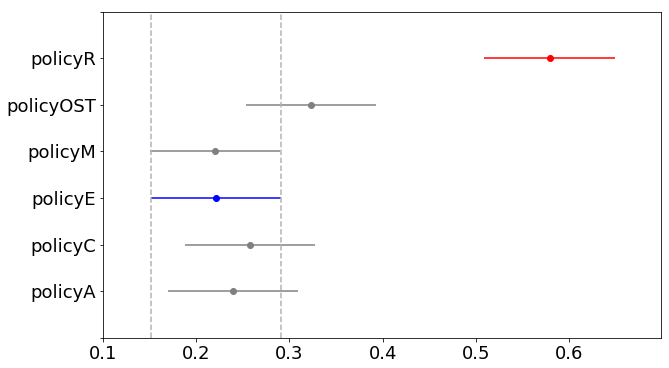
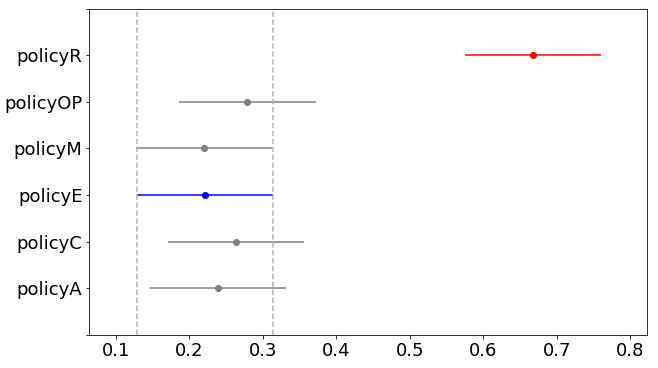
Updates from Overleaf

diff --git a/example.tex b/example.tex
@@ -347,6 +347,28 @@ Two time-series datasets will be used in order to apply the proposed approach an
 \\$\bullet$ \textbf{Gas sensors for home activity monitoring Data Set } \cite{HUERTA2016169} - a timestamped dataset containing readings from temperature, humidity and 8 metal-oxide(MOX) gas sensors of a contained environment where either or not a stimuli is presented. The collected data will be used in the Support Vector Regression(SVR) (with an RBF kernel) task in order to assess the 5 policies. The generated support vector models are aimed at predicting the level of MOX gas based on the vector of detected humidity and temperature.
 \subsection{Experimentation with Linear Regression models}
 % experiment set up for Lin Reg
+The experiment using linear regression models was performed using the initial 100 datapoints of the dataset for any pre-processing analysis depending on the targeted policy and the rest of the dataset was used to simulate an online approach to each of the 5 policies.
+
+%SHOULD I specify the used parameter values
+Three of the policies required some parameterisation which needs to be mentioned in advance.
+% $\bullet$ \emph{CuSum policy:}
+% $\bullet$ \emph{Random policy:}
+% $\bullet$ \emph{OP policy:}
+% $\bullet$ \emph{Median policy:}
+The Median policy was performed using an $\alpha$ fraction of the median of the first 100 datapoints, in this case $\alpha$ was set to 0.5.
+
+The CuSum policy relies on a threshold parameter $\Theta = 2$, up to which the cumulative sum of the logarithm ratio is allowed to increase.
+
+The OP policy requires two parameter values, one for the error sum threshold and one for the penalty value. The boxplot analysis was performed by specifying a threshold $\Theta$ for the OP policy and running the simulation with penalty values ranging from 2 to 15. 
+In \ref{fig:boxplot_linreg} for the USV sensor "pi3" it is shown that the highest mean on update delaying is achieved using a threshold $\Theta = 3$ and a penalty value $B=14$.
+These values are then used in the complete simulation of the policy comparison.
+
+\begin{figure}[h]
+    \centering
+    \includegraphics[scale=0.4]{imgs/boxplot_linreg_waiting_pi3.png}
+    \caption{Waiting time boxplot for $\Theta=3$ and $B$ values in the range 2 to 15}
+    \label{fig:boxplot_linreg}
+\end{figure}
 
 % place plot of all policies abs error rate for lin reg
 \begin{figure}[h]
@@ -358,41 +380,44 @@ Two time-series datasets will be used in order to apply the proposed approach an
 
 \begin{figure}[h]
     \centering
-    \includegraphics[scale=0.33]{imgs/lin_reg_pi4_w25.png}
-    \caption{Absolute error difference for USV sensor system, s=pi4, w=25, using Linear Regression}
+    \includegraphics[scale=0.33]{imgs/comm_lin_reg_pi3.png}
+    \caption{Communication for USV sensor system, s=pi3, w=25, using Linear Regression}
     \label{fig:err_lin_reg_pi4}
 \end{figure}
 % talk about one-way anova results and tukey ttest on waiting time
 % place plot
-\begin{figure}[h]
+\begin{figure}[t!]
     \centering
     \includegraphics[scale=0.35]{imgs/lin_reg_pi3_waiting_plot_diff_means.png}
     \caption{Policy comparison on waiting time using using Linear Regression}
-    \label{fig:svr_rbf_R5_waiting_plot_diff_means}
+    \label{fig:lin_reg_pi3_waiting_plot_diff_means}
 \end{figure}
 % talk about one way anova results and tukey ttest on abs error rate
-\begin{figure}[h]
+\begin{figure}[t!]
     \centering
     \includegraphics[scale=0.35]{imgs/lin_reg_pi3_error_plot_diff_means.png}
     \caption{Policy comparison on absolute error rate time using Linear Regression}
-    \label{fig:svr_rbf_R5_waiting_plot_diff_means}
+    \label{fig:lin_reg_pi3_waiting_plot_diff_means}
 \end{figure}
 
 \subsection{Experimentation with Support Vector Regression models}
 
-After some analysis of the data it was found out that the initial 100 datapoints of the HT sensor dataset contains 
+After some analysis of the data it was found that the initial 100 datapoints of the HT sensor dataset contain a single drift in the observed pattern. However, the rest of the data used in the simulation of the online algorithm has no changes, which results in no communication between the edge node and the gateway. This called for placing an artificial change in the data. One gradual long term change and one abrupt short term change in the data affecting only the MOX sensor data and preserving the genuine datastream for the humidity and temperature. This is aimed to simulate a new pattern in the data which would cause a change in the communicated models.
+
+The gradual long term change occurs from iteration 50 of the start of the simulation, where the MOX sensor values are increased with 10\% of the mean value in the next 12 iterations and after that the change is kept persistent throughout the rest of the simulation. This change is intended to serve as a critical change \cite{lautay2018} which should be detected by the algorithm and acted upon as soon as possible.
+
+The second abrupt change occurs short term change occurs in iteration 108. The change in the MOX sensor values is increased with 2.5\% of the mean value and then decreased to the genuine data stream in the next 4 iterations. This change is intended to serve as a nuisance change \cite{lautay2018} which should be of least importance to the algorithm.
+
+%chosen B is 3 with highest mean waiting time
+\begin{figure}[h]
+    \centering
+    \includegraphics[scale=0.4]{imgs/boxplot_svr_waiting_R5.png}
+    \caption{Waiting time boxplot for $\Theta=1$ and $B$ values in the range 2 to 15}
+    \label{fig:boxplot_svr}
+\end{figure}
 
 % experiment set up for SVR
 % place plot of all policies abs error rate for SVR
-\begin{figure}[h]
-    \centering
-    \includegraphics[scale=0.33]{imgs/svr_rbf_R3_w25.png}
-    \caption{Absolute error difference for HT sensor system, s=R3, w=25,
-    using Support Vector Regression with RBF Kernel 
-    given an artificial change at 40th window iteration}
-    \label{fig:err_rbf_svr_R3}
-\end{figure}
-
 \begin{figure}[h]
     \centering
     \includegraphics[scale=0.33]{imgs/svr_rbf_R5_w25.png}
@@ -401,6 +426,14 @@ After some analysis of the data it was found out that the initial 100 datapoints
     given an artificial change at 40th window iteration}
     \label{fig:err_rbf_svr_R5}
 \end{figure}
+
+\begin{figure}
+    \centering
+    \includegraphics[scale=0.34]{imgs/comm_svr_rbf_R5.png}
+    \caption{Communication for HT sensor system, s=R5, w=25, using Support Vector Regression with RBF Kernel}
+    \label{fig:comm_rbf_svr_R5}
+\end{figure}
+
 % talk about one-way anova results and tukey ttest on waiting time
 % place plot
 \begin{figure}[h]
@@ -429,8 +462,6 @@ This is optional; it is a location for you to thank people
 
 \bibliographystyle{abbrv}
 \bibliography{example.bib}
-
-\pagebreak
 
 \begin{appendix}
 
